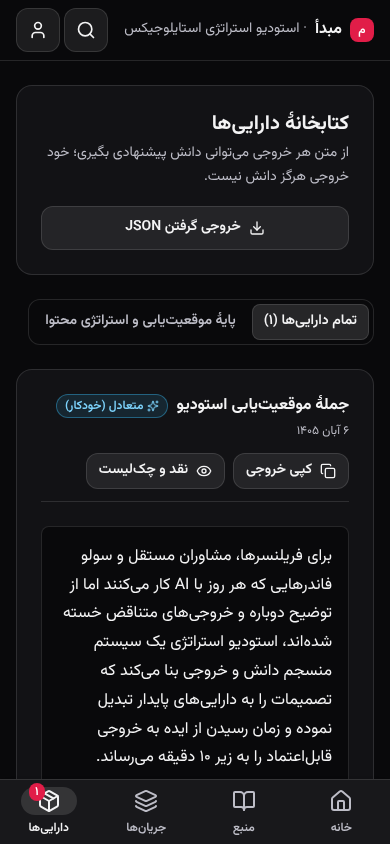
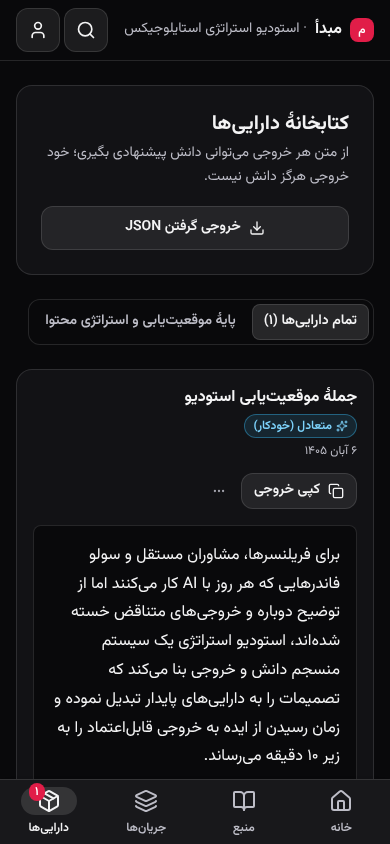
feat(ui): کتابخانهٔ داراییها با «⋯»؛ انتخابهای نوع کار با حاشیه؛ screens: دارایی/جریان کار نمونه و گام ۲ اتصال
Claude-Session: https://claude.ai/code/session_012s3hWJ53mCG12g4v1cSDvK

diff --git a/src/components/AiRequestDialog.tsx b/src/components/AiRequestDialog.tsx
@@ -147,7 +147,7 @@ const Inner: React.FC<Props> = ({ workspaceId, nodes, scopeNodeId, onClose, onOp
       <div className="flex flex-col gap-stack-md">
         <div role="radiogroup" aria-label="نوع کار" className="grid grid-cols-2 gap-inline-sm sm:grid-cols-3">
           {REQUEST_KINDS.map((k) => (
-            <Button key={k.kind} size="md" className="w-full" variant={k.kind === kind ? 'secondary' : 'ghost'} iconStart={k.kind === kind ? 'Check' : undefined} role="radio" aria-checked={k.kind === kind} onClick={() => { setKind(k.kind); setExtraIds([]); }}>{k.label}</Button>
+            <Button key={k.kind} size="md" className={`w-full ${k.kind === kind ? '' : 'border border-border-default'}`} variant={k.kind === kind ? 'secondary' : 'ghost'} iconStart={k.kind === kind ? 'Check' : undefined} role="radio" aria-checked={k.kind === kind} onClick={() => { setKind(k.kind); setExtraIds([]); }}>{k.label}</Button>
           ))}
         </div>
         <p className="body-sm text-text-subtle">{meta.hint}</p>
@@ -170,7 +170,7 @@ const Inner: React.FC<Props> = ({ workspaceId, nodes, scopeNodeId, onClose, onOp
         {error && <Alert intent="danger">{error}</Alert>}
         {!result && !error && <div className="flex items-center gap-inline-sm text-text-subtle"><Spinner label="در حال ساخت" /><span className="body-md">در حال ساخت…</span></div>}
         {result && (
-          <ClosedSection title={<>با {formatNumber(result.included.length)} مورد از دانشت · حدود {formatNumber(result.tokens)} توکن — جزئیات</>}>
+          <ClosedSection keepMounted title={<>با {formatNumber(result.included.length)} مورد از دانشت · حدود {formatNumber(result.tokens)} توکن — جزئیات</>}>
           <div className="mt-stack-md flex flex-col gap-stack-md">
             <div className="flex flex-wrap items-center gap-inline-sm" aria-live="polite">
               <Badge intent="neutral" icon="FileText">حدود {formatNumber(result.tokens)} توکن</Badge>

diff --git a/src/components/AssetLibrary.tsx b/src/components/AssetLibrary.tsx
@@ -7,7 +7,7 @@ import React, { useEffect, useState } from 'react';
 import { ContextObject, GeneratedDeliverable, Workspace } from '../types';
 import { ContextReplayCard } from './ContextReplayCard';
 import type { StaleAsset } from '../core/impactEngine';
-import { Button, Card, EmptyState, Tabs, formatNumber, useToast } from '../ui';
+import { Button, EmptyState, IconButton, Menu, Tabs, formatNumber, useToast } from '../ui';
 
 interface AssetLibraryProps {
   currentWorkspace: Workspace;
@@ -66,15 +66,18 @@ export const AssetLibrary: React.FC<AssetLibraryProps> = ({
 
   return (
     <div className="flex flex-col gap-stack-lg">
-      <Card padding="xl" className="flex flex-col justify-between gap-inline-lg md:flex-row md:items-center">
+      <div className="flex items-start justify-between gap-inline-md">
         <div>
           <h2 className="heading-sm text-text-default">کتابخانهٔ داراییها</h2>
-          <p className="body-sm mt-stack-xs text-text-subtle">
-            از متن هر خروجی میتوانی دانش پیشنهادی بگیری؛ خود خروجی هرگز دانش نیست.
-          </p>
+          <p className="body-sm mt-stack-xs text-text-subtle">از متن هر خروجی میتوانی دانش پیشنهادی بگیری؛ خود خروجی هرگز دانش نیست.</p>
         </div>
-        <Button variant="secondary" iconStart="Download" onClick={handleExportJson}>خروجی گرفتن JSON</Button>
-      </Card>
+        <Menu
+          label="بیشتر دربارهٔ کتابخانه"
+          align="end"
+          trigger={<IconButton icon="Ellipsis" label="بیشتر دربارهٔ کتابخانه" variant="secondary" />}
+          items={[{ label: 'خروجی گرفتن JSON', icon: 'Download', onSelect: handleExportJson }]}
+        />
+      </div>
 
       <Tabs
         label="فیلتر داراییها"

diff --git a/src/components/ClosedSection.tsx b/src/components/ClosedSection.tsx
@@ -11,6 +11,8 @@ interface Props {
   /** a number after the title, only when > 0 */
   count?: number;
   defaultOpen?: boolean;
+  /** keep the content in the page while closed (hidden): for content that other code reads, like the exact text a button will copy */
+  keepMounted?: boolean;
   children: React.ReactNode;
 }
 
@@ -18,7 +20,7 @@ interface Props {
  * THE shared «closed section» (docs/design-principles.md → الگوهای مشترک): a full-width row, title at the start, a chevron at the end,
  * ≥ 44px tall; the content only when asked for. Everywhere the app hides a detail behind «بیشتر / جزئیات» it uses this.
  */
-export const ClosedSection: React.FC<Props> = ({ title, count, defaultOpen = false, children }) => {
+export const ClosedSection: React.FC<Props> = ({ title, count, defaultOpen = false, keepMounted = false, children }) => {
   const [open, setOpen] = useState(defaultOpen);
   const id = useId();
   return (
@@ -27,7 +29,7 @@ export const ClosedSection: React.FC<Props> = ({ title, count, defaultOpen = fal
         <span>{title}{count ? ` (${formatNumber(count)})` : ''}</span>
         <Icon name={open ? 'ChevronUp' : 'ChevronDown'} size="sm" className="shrink-0 text-icon-subtle" />
       </button>
-      {open && <div id={id} className="flex flex-col gap-stack-xs ps-inset-md">{children}</div>}
+      {(open || keepMounted) && <div id={id} hidden={!open} className="flex flex-col gap-stack-xs ps-inset-md">{children}</div>}
     </div>
   );
 };
